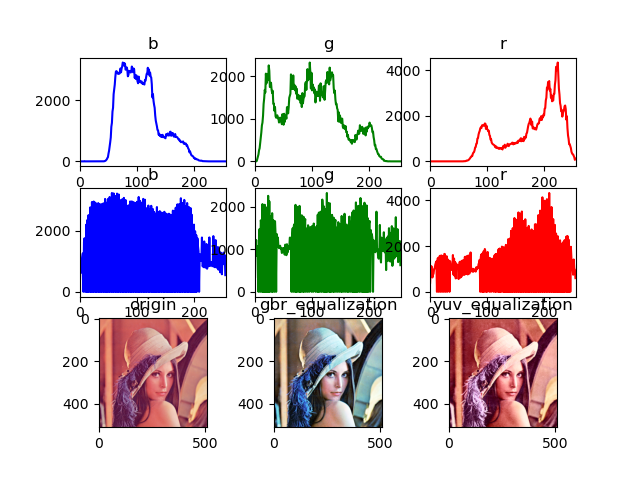
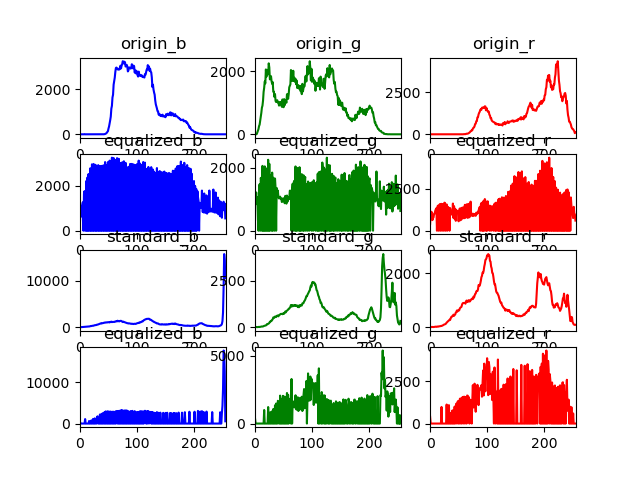
update equalization

diff --git a/equalization.py b/equalization.py
@@ -2,23 +2,47 @@ import cv2
 import numpy as np
 from matplotlib import pyplot as plt
 
-from transform import transform
-
 
 def histogram(channel):
     hist, _ = np.histogram(channel.ravel(), 256, [0, 256])
     return hist
 
 
-def equalize(channel):
+def mapping(channel):
     hist = histogram(channel)
     func = []
     pre_sum = 0
     tot_sum = sum(hist)
     for num in hist:
-        tmp = float(pre_sum+num) / tot_sum
-        func.append(int(255*tmp+0.5))
+        tmp = float(pre_sum + num) / tot_sum
+        func.append(int(255 * tmp + 0.5))
         pre_sum += num
+    return func
+
+
+def equalize(channel, standard=None):
+    func = mapping(channel)
+    if standard is None:
+        st = [i for i in range(256)]
+    else:
+        st = mapping(standard)
+
+    i = 0
+    j = 0
+    while i < 256:
+        if func[i] == st[j]:
+            func[i] = j
+            i += 1
+        elif func[i] < st[j]:
+            func[i] = j-1
+            i += 1
+        else:
+            j += 1
+
+        if j == 256:
+            while i < 256:
+                func[i] = 255
+                i += 1
 
     out = np.zeros(channel.shape, np.uint8)
     for i in range(512):
@@ -29,29 +53,51 @@ def equalize(channel):
 
 if __name__ == '__main__':
     img = cv2.imread('img/lena.tiff')
-    channels = cv2.split(img)
+    standard_img = cv2.imread('img/equalization/standard2.jpg')
+
     color = ('b', 'g', 'r')
+
+    channels = cv2.split(img)
+    channels_ = np.zeros((3, 512, 512), dtype=np.uint8)
     for k, col in enumerate(color):
         hist_r = histogram(channels[k])
-        plt.subplot(3, 3, k+1), plt.plot(hist_r, color=col), plt.title('{}'.format(col)), plt.xlim([0, 256])
-
-    channels_ = np.zeros((3, 512, 512), dtype=np.uint8)
+        plt.subplot(4, 3, k + 1), plt.plot(hist_r, color=col), plt.title('origin_{}'.format(col)), plt.xlim([0, 256])
     for k, col in enumerate(color):
         channels_[k] = equalize(channels[k])
         hist_ = histogram(channels_[k])
-        plt.subplot(3, 3, k+4), plt.plot(hist_, color=col), plt.title('{}'.format(col)), plt.xlim([0, 256])
+        plt.subplot(4, 3, k + 4), plt.plot(hist_, color=col), plt.title('equalized_{}'.format(col)), plt.xlim([0, 256])
     img_gbr_equal = channels_.transpose((1, 2, 0))
 
-    img_yuv = cv2.cvtColor(img, cv2.COLOR_BGR2YUV)
-    channels = cv2.split(img)
-    img_yuv[:, :, 0] = equalize(channels[0])
-    img_yuv_equal = cv2.cvtColor(img_yuv, cv2.COLOR_YUV2BGR)
+    channels_ = np.zeros((3, 512, 512), dtype=np.uint8)
+    channels_standard = cv2.split(standard_img)
+    for k, col in enumerate(color):
+        hist_r = histogram(channels_standard[k])
+        plt.subplot(4, 3, k + 7), plt.plot(hist_r, color=col), plt.title('standard_{}'.format(col)), plt.xlim([0, 256])
 
-    plt.subplot(3, 3, 7), plt.imshow(transform(img)), plt.title('origin')
-    plt.subplot(3, 3, 8), plt.imshow(transform(img_gbr_equal)), plt.title('gbr_equalization')
-    plt.subplot(3, 3, 9), plt.imshow(transform(img_yuv_equal)), plt.title('yuv_equalization')
+    for k, col in enumerate(color):
+        channels_[k] = equalize(channels[k], channels_standard[k])
+        hist_ = histogram(channels_[k])
+        plt.subplot(4, 3, k + 10), plt.plot(hist_, color=col), plt.title('equalized_{}'.format(col)), plt.xlim([0, 256])
+    img_standard_equal = channels_.transpose((1, 2, 0))
     plt.savefig('img/equalization/equalization.png')
     plt.show()
 
+    img_yuv = cv2.cvtColor(img, cv2.COLOR_BGR2YUV)
+    standard_yuv = cv2.cvtColor(standard_img, cv2.COLOR_BGR2YUV)
+    channels = cv2.split(img)
+    channels_standard = cv2.split(standard_yuv)
+    img_yuv[:, :, 0] = equalize(channels[0])
+    img_yuv_equal = cv2.cvtColor(img_yuv, cv2.COLOR_YUV2BGR)
+    img_yuv[:, :, 0] = equalize(channels[0], channels_standard[0])
+    img_yuv_standard = cv2.cvtColor(img_yuv, cv2.COLOR_YUV2BGR)
+
     cv2.imwrite('img/equalization/gbr_equalization.png', img_gbr_equal)
     cv2.imwrite('img/equalization/yuv_equalization.png', img_yuv_equal)
+    cv2.imwrite('img/equalization/gbr_standard.png', img_standard_equal)
+    cv2.imwrite('img/equalization/yuv_standard.png', img_yuv_standard)
+
+    cv2.imshow('gbr', img_gbr_equal)
+    cv2.imshow('gbr_standard', img_standard_equal)
+    cv2.imshow('yuv', img_yuv_equal)
+    cv2.imshow('yuv_standard', img_yuv_standard)
+    cv2.waitKey(0)
